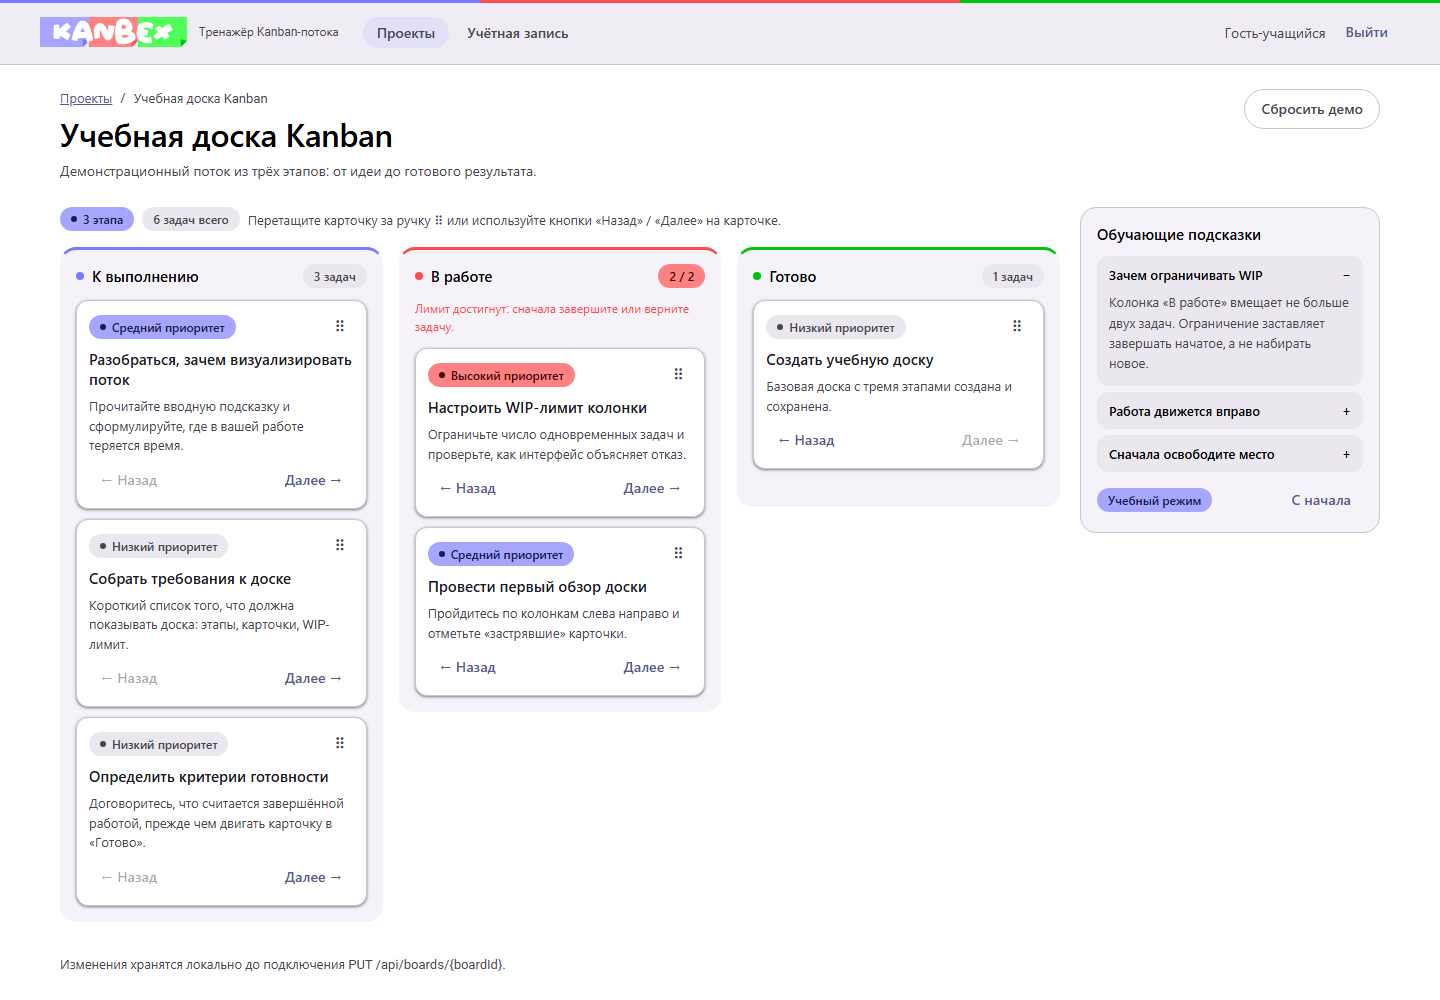
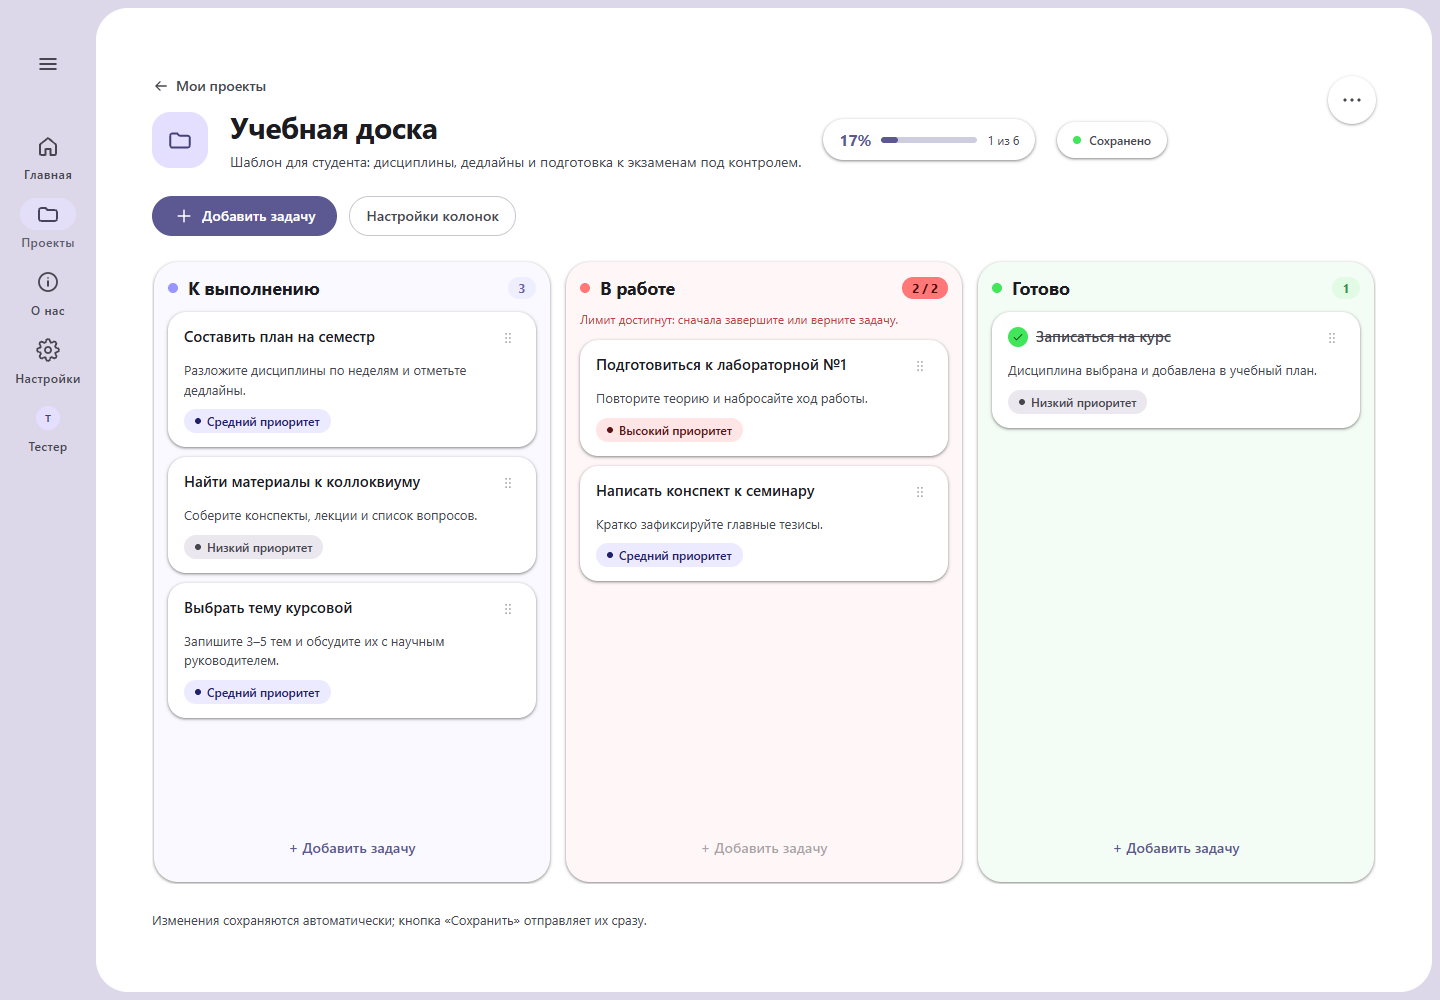
Актуализированы README и скриншоты.

diff --git a/README.md b/README.md
@@ -2,30 +2,58 @@
 
 ![Логотип Kanbex](docs/kanbex-logo.svg)
 
-Учебный симулятор Kanban-потока: Kanban-доска с тремя этапами, WIP-лимитом и карточками задач. Проект показывает, как устроены визуализация потока работ и ограничение незавершённой работы.
+**Версия 0.1.0** · учебный симулятор Kanban-потока
 
-Текущая версия — **рабочий MVP**. Регистрация, вход и выход обслуживаются ASP.NET Core Identity через `/api/auth/*` с HttpOnly cookie и antiforgery-токеном. Доски хранятся на сервере в SQLite: их можно создавать, открывать, сохранять, сбрасывать к учебному набору и удалять. Новая доска сразу содержит три колонки и демонстрационные карточки.
+Kanbex — веб-симулятор Kanban-доски: колонки, карточки задач, приоритеты и WIP-лимиты. Он показывает, как визуализировать поток работ и ограничивать незавершённую работу, чтобы задачи доходили до «Готово», а не копились в работе.
 
-![Список проектов](docs/screenshots/boards.png)
+В версии 0.1.0 работают регистрация и вход через ASP.NET Core Identity, серверное хранение досок в SQLite, готовые шаблоны под разные сценарии, drag-and-drop, автосохранение, персонализация оформления и общая библиотека компонентов `@kanbex/ui`.
 
-![Kanban-доска](docs/screenshots/board.png)
+## Скриншоты
 
-## Возможности каркаса
+| Вход | Главная |
+|---|---|
+| ![Вход](docs/screenshots/login.png) | ![Главная](docs/screenshots/home.png) |
+
+| Проекты | Kanban-доска |
+|---|---|
+| ![Список проектов](docs/screenshots/boards.png) | ![Kanban-доска](docs/screenshots/board.png) |
+
+| Настройки | Профиль |
+|---|---|
+| ![Настройки и палитры](docs/screenshots/settings.png) | ![Профиль](docs/screenshots/profile.png) |
+
+![Страница «О Kanbex»](docs/screenshots/about.png)
+
+## Возможности
+
+### Доски и поток работ
 
 - список личных проектов с поиском, созданием и удалением;
-- главный экран с боковым меню, приветствием и прогрессом последних проектов;
-- серверное хранение досок в SQLite: CRUD через `/api/boards/*`, проверка владельца, версии и WIP-лимита;
-- новая доска с колонками и демонстрационными карточками;
-- сброс доски к начальному учебному набору с подтверждением;
-- Kanban-доска с колонками «К выполнению», «В работе» и «Готово»;
-- карточки задач, приоритеты, WIP-лимит и обратная связь при отклонённом перемещении;
-- создание задач с названием, описанием и приоритетом прямо в колонке;
-- drag-and-drop карточек и доступная альтернатива кнопками «Назад» / «Далее»;
-- страницы входа, регистрации, профиля и 404;
-- серверная аутентификация ASP.NET Core Identity: cookie-сессия, antiforgery и защита `/api/auth/*`;
-- общая библиотека компонентов `@kanbex/ui`, реально используемая основным приложением;
-- фирменный логотип и палитра бренда в шапке, колонках и метках статусов;
-- ESLint, Jest, unit-тесты и coverage для frontend-проектов.
+- главный экран с шаблонами сценариев и прогрессом последних проектов;
+- четыре готовых шаблона доски: `student`, `developer`, `manager`, `personal` — создаются через `POST /api/boards/template/{key}` с колонками и демонстрационными карточками;
+- рабочая область доски: шапка проекта с прогрессом, статусом сохранения и меню действий, тулбар и колонки со счётчиками;
+- карточки задач с приоритетами, drag-and-drop и доступной альтернативой кнопками «Назад» / «Далее»;
+- WIP-лимиты с обратной связью при отклонённом перемещении;
+- автосохранение изменений и ручное сохранение;
+- создание и редактирование карточек, настройка колонок, очистка задач и сброс доски к учебному набору;
+- серверное хранение в SQLite: CRUD через `/api/boards/*`, проверка владельца, версии и WIP.
+
+### Оформление и интерфейс
+
+- светлая и тёмная темы Material 3;
+- акцентный seed-цвет, 10 готовых палитр и собственные темы из 30 цветов — с созданием, редактированием и удалением;
+- настройки темы сохраняются в `localStorage` (`kanbex.theme`), режим выставляется как `data-theme-mode` на `<html>`;
+- навигационная рельса `NavigationRail` вместо drawer: сворачивается и разворачивается, ведёт на главную, проекты, «О нас» и настройки, снизу — карточка пользователя;
+- страницы настроек и профиля: аватар (локально), отображаемое имя, смена пароля, выход из аккаунта;
+- страница «О нас» с описанием проекта, ссылкой на GitHub и стеком технологий;
+- сплит-лейаут входа с брендовой панелью и переключателем показа пароля.
+
+### Аутентификация и качество
+
+- ASP.NET Core Identity: cookie-сессия `Kanbex.Auth`, antiforgery для изменяющих запросов, защита `/api/auth/*`;
+- эндпоинты профиля `POST /api/auth/display-name` и `POST /api/auth/change-password`;
+- общая библиотека `@kanbex/ui` с алиасами Material-компонентов, `KanbexLogo`, `KanbexMark` и бренд-токенами;
+- ESLint, Jest, unit-тесты и coverage для frontend-проектов, xUnit-тесты API, миграций и Razor-хостов.
 
 ## Стек
 
@@ -34,42 +62,48 @@
 | Сервер | ASP.NET Core MVC / Web API, .NET 10, Entity Framework Core 10, SQLite, ASP.NET Core Identity |
 | Клиент | React 19, TypeScript 5.9, Vite 8, React Router 7, `m3-expressive-react`, `@dnd-kit` |
 | Библиотека UI | `@kanbex/ui` — React + TypeScript, общие компоненты без доменной логики |
-| Качество | ESLint 9, typescript-eslint, Jest 30, Testing Library, `@testing-library/jest-dom` |
+| Качество | ESLint 9, typescript-eslint, Jest 30, Testing Library, xUnit |
 
 Более подробное описание архитектуры, маршрутов и состава компонентов — в [architecture.md](architecture.md). Функциональные требования MVP — в [mvp.md](mvp.md).
 
 ## Брендинг
 
-Логотип хранится в `docs/kanbex-logo.svg` и как React-компонент `KanbexLogo` в `@kanbex/ui`, поэтому шапка приложения и страницы входа используют один и тот же знак. Favicon — `src/Kanbex.Web/wwwroot/favicon.svg`.
+Основной логотип хранится в `docs/kanbex-logo.svg`, компактный знак — в `docs/kanbexLogo2.svg` и как React-компонент `KanbexMark` в `@kanbex/ui`. Favicon — `src/Kanbex.Web/wwwroot/favicon.svg`.
 
-| Цвет | HEX | Использование |
+| Токен | HEX | Использование |
 |---|---|---|
-| Белый | `#FFFFFF` | Фон и буквы логотипа, поверхности |
-| Зелёный тёмный | `#00C30D` | Акцент колонки «Готово», метки успеха |
-| Зелёный светлый | `#4EFF5A` | Фон меток успеха, карточка логотипа |
-| Фиолетовый | `#7979FF` | Основной seed-цвет темы, акцент «К выполнению» |
-| Фиолетовый светлый | `#A6A6FF` | Фон информационных меток, карточка логотипа |
-| Красный тёмный | `#FE4B4B` | Акцент «В работе», опасные состояния |
-| Красный светлый | `#FF8181` | Предупреждения и высокий приоритет |
+| `--kb-color-lilac` | `#9995FF` | Акцент этапа «К выполнению» |
+| `--kb-color-lilac-soft` | `#ECEAFF` | Подложки и метки «К выполнению» |
+| `--kb-color-purple` | `#6252E8` | Основной seed-цвет темы, primary-кнопки |
+| `--kb-color-coral` | `#FF7777` | Акцент этапа «В работе», опасные состояния |
+| `--kb-color-coral-soft` | `#FFE5E5` | Подложки и метки «В работе» |
+| `--kb-color-green` | `#42E65A` | Акцент этапа «Готово», успех |
+| `--kb-color-green-soft` | `#DFF8E3` | Подложки и метки «Готово» |
+| `--kb-color-workspace` | `#E4DFF9` | Фон рабочей области приложения |
+| `--kb-color-ink` | `#17172B` | Основной текст |
+| `--kb-color-ink-secondary` | `#777793` | Вторичный текст |
 
-Палитра доступна в CSS как `--kb-color-*` (`src/Kanbex.UI/src/styles/components.css`); `ThemeProvider` получает seed-цвет `#7979FF`, поэтому остальные Material-токены согласованы с логотипом.
+Палитра доступна в CSS как `--kb-color-*` (`src/Kanbex.UI/src/styles/components.css`). Тема по умолчанию — светлая с seed-цветом `#6252E8`; остальные Material-токены генерируются из него через `generateColorScheme`.
 
 ## Структура репозитория
 
 ```text
 .
+├── Directory.Build.props          # единая версия 0.1.0 для .NET-проектов
 ├── architecture.md
 ├── mvp.md
 ├── README.md
-├── docs/                          # логотип и скриншоты для README
-│   ├── kanbex-logo.svg
-│   └── screenshots/
+├── docs/
+│   ├── kanbex-logo.svg            # основной логотип
+│   ├── kanbexLogo2.svg            # исходник компактного знака KanbexMark
+│   └── screenshots/               # скриншоты для README
 ├── Kanbex.sln
 ├── src/
 │   ├── Kanbex.Web/                # ASP.NET Core MVC/API и React-хост
 │   │   └── ReactApp/              # React-приложение и его тесты
 │   ├── Kanbex.Infrastructure/     # EF Core, SQLite, Identity persistence
-│   └── Kanbex.UI/                 # библиотека @kanbex/ui и её unit-тесты
+│   ├── Kanbex.UI/                 # библиотека @kanbex/ui и её unit-тесты
+│   └── Kanbex.Tests/              # xUnit-тесты API, миграций и Razor-хостов
 ├── package.json                   # npm workspaces и общие команды
 └── package-lock.json
 ```
@@ -152,10 +186,16 @@ dotnet test Kanbex.sln
 
 ## Демонстрационные данные
 
-Аутентификация работает через ASP.NET Core Identity: вход, регистрация и выход вызывают `/api/auth/*`, а браузер получает HttpOnly cookie `Kanbex.Auth`. Демонстрационный пользователь (`student@kanbex.local` / `Student1`) создаётся в Development при применении миграций. Проекты хранятся на сервере в SQLite и связаны с владельцем из сессии: новая доска создаётся вместе с демонстрационными карточками, а кнопка «Сбросить доску» возвращает её к начальному набору.
+Аутентификация работает через ASP.NET Core Identity: вход, регистрация и выход вызывают `/api/auth/*`, а браузер получает HttpOnly cookie `Kanbex.Auth`. Демонстрационный пользователь (`student@kanbex.local` / `Student1`) создаётся в Development при применении миграций.
+
+Проекты хранятся в SQLite в `src/Kanbex.Web/kanbex.db`. Относительный `Data Source` из конфигурации якорится на content root приложения, поэтому файл базы не зависит от каталога запуска. В Development миграции и сиды применяются автоматически.
+
+## Версия
+
+Текущий релиз отмечен тегом `v0.1.0`.
 
 ## Статус реализации
 
-Готово: структура решения, маршрутизация, страницы, компоненты, библиотека `@kanbex/ui`, тесты, lint, миграции EF Core, SQLite-база, аутентификация `/api/auth/*` с cookie-сессией и antiforgery, CRUD досок `/api/boards/*`, сохранение полной доски с проверками владельца, версии и WIP, перенос карточек, сброс доски и демонстрационное содержимое новой доски.
+Готово: структура решения, маршрутизация, страницы, компоненты, библиотека `@kanbex/ui`, тесты, lint, миграции EF Core, SQLite-база, аутентификация `/api/auth/*` с cookie-сессией и antiforgery, CRUD досок `/api/boards/*`, шаблоны досок, сохранение полной доски с проверками владельца, версии и WIP, перенос карточек, сброс доски, персонализация оформления, профиль и настройки.
 
 Следующий этап: расширение тестового покрытия, CI и UX-доработки — см. [mvp.md](mvp.md) и [architecture.md](architecture.md).
